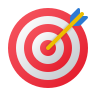
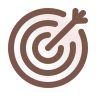
Update tracklist checkbox

diff --git a/src/App.css b/src/App.css
@@ -92,18 +92,17 @@
     gap: 1rem;
     font-size: 1.3rem;
   }
-
 }
 
 @supports (-webkit-appearance: none) or (-moz-appearance: none) {
   .checkbox-wrapper-13 input[type=checkbox] {
-    --active: #6584ff;
+    --active: hsl(16 53.8% 47.5% / 1);  
     --active-inner: #ffffff;
-    --focus: 2px rgb(190, 121, 121);
+    --focus: 2px rgb(229, 181, 127);
     --border: #fff;
     --border-hover: #fefefe;
     --background: #fff;
-    --checked-background: #6584ff;
+    --checked-background: #e2a572;
     --disabled: #f2f3f5;
     --disabled-inner: #ffffff;
     -webkit-appearance: none;
@@ -195,9 +194,9 @@
 .footer-section{
   position: fixed;
   bottom: 1.2%;
-  left: 25%;
+  left: 19%;
   border: 1px solid;
-  width: 50%;
+  width: 60%;           /*Changes to be rechecked */
   display: flex;
   justify-content: space-between;
   align-items: center;
